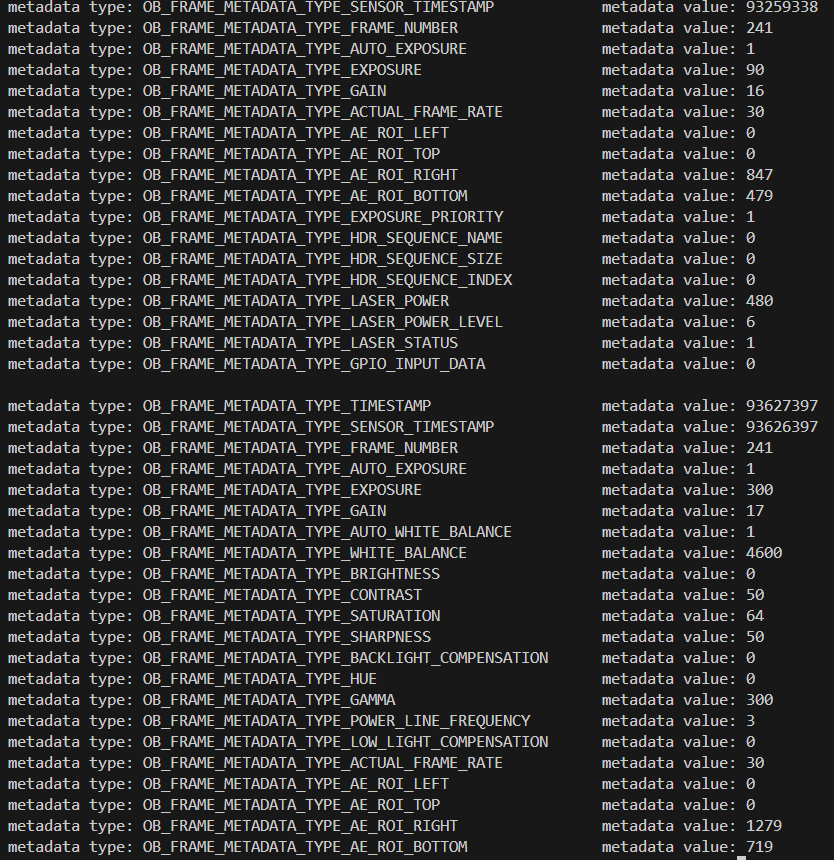
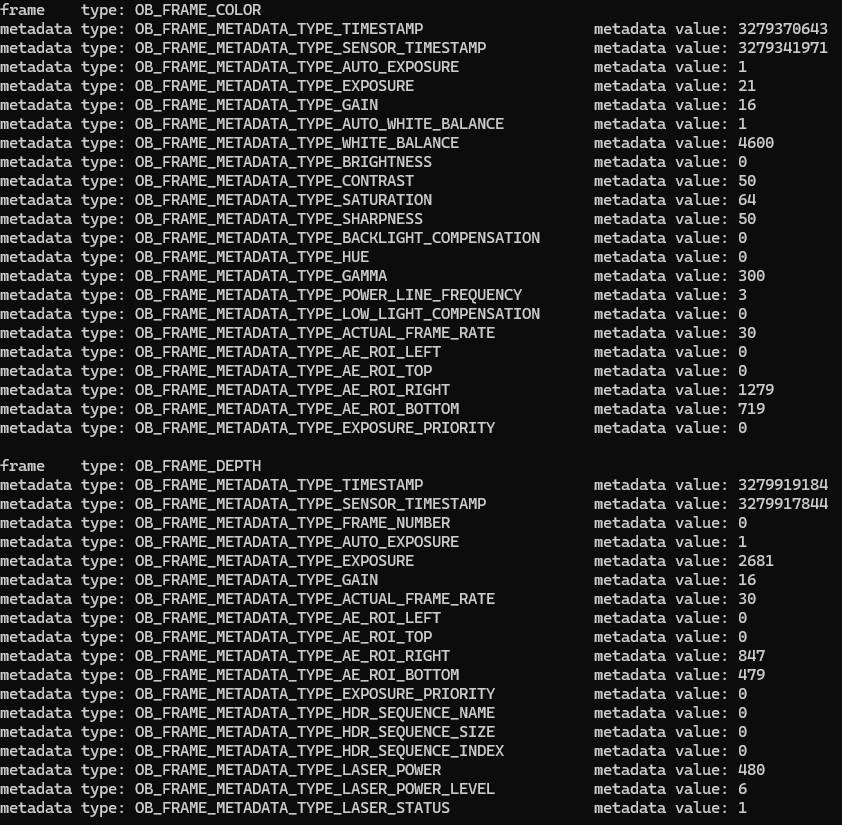
Optimize metadata sample code and documentation

diff --git a/examples/4.misc.metadata/metadata.cpp b/examples/4.misc.metadata/metadata.cpp
@@ -1,4 +1,5 @@
 #include <libobsensor/ObSensor.hpp>
+#include <libobsensor/h/ObTypes.h>
 
 #include "utils.hpp"
 
@@ -6,45 +7,12 @@
 #include <thread>
 #include <iomanip>
 
-std::thread         inputWatchThread;
-void                inputWatcher();
-OBFrameMetadataType metadataType;
-auto                metadataCount = OBFrameMetadataType::OB_FRAME_METADATA_TYPE_COUNT;
+std::thread inputWatchThread;
+std::atomic<bool> isRunning(true);
+void        inputWatcher();
+const char *metadataTypeToString(OBFrameMetadataType type);
+const char *frameTypeToString(OBFrameType type);
 
-std::map<uint32_t, std::string> metadataTypeMap = {
-    { 0, "OB_FRAME_METADATA_TYPE_TIMESTAMP" },
-    { 1, "OB_FRAME_METADATA_TYPE_SENSOR_TIMESTAMP" },
-    { 2, "OB_FRAME_METADATA_TYPE_FRAME_NUMBER" },
-    { 3, "OB_FRAME_METADATA_TYPE_AUTO_EXPOSURE" },
-    { 4, "OB_FRAME_METADATA_TYPE_EXPOSURE" },
-    { 5, "OB_FRAME_METADATA_TYPE_GAIN" },
-    { 6, "OB_FRAME_METADATA_TYPE_AUTO_WHITE_BALANCE" },
-    { 7, "OB_FRAME_METADATA_TYPE_WHITE_BALANCE" },
-    { 8, "OB_FRAME_METADATA_TYPE_BRIGHTNESS" },
-    { 9, "OB_FRAME_METADATA_TYPE_CONTRAST" },
-    { 10, "OB_FRAME_METADATA_TYPE_SATURATION" },
-    { 11, "OB_FRAME_METADATA_TYPE_SHARPNESS" },
-    { 12, "OB_FRAME_METADATA_TYPE_BACKLIGHT_COMPENSATION" },
-    { 13, "OB_FRAME_METADATA_TYPE_HUE" },
-    { 14, "OB_FRAME_METADATA_TYPE_GAMMA" },
-    { 15, "OB_FRAME_METADATA_TYPE_POWER_LINE_FREQUENCY" },
-    { 16, "OB_FRAME_METADATA_TYPE_LOW_LIGHT_COMPENSATION" },
-    { 17, "OB_FRAME_METADATA_TYPE_MANUAL_WHITE_BALANCE" },
-    { 18, "OB_FRAME_METADATA_TYPE_ACTUAL_FRAME_RATE" },
-    { 19, "OB_FRAME_METADATA_TYPE_FRAME_RATE" },
-    { 20, "OB_FRAME_METADATA_TYPE_AE_ROI_LEFT" },
-    { 21, "OB_FRAME_METADATA_TYPE_AE_ROI_TOP" },
-    { 22, "OB_FRAME_METADATA_TYPE_AE_ROI_RIGHT" },
-    { 23, "OB_FRAME_METADATA_TYPE_AE_ROI_BOTTOM" },
-    { 24, "OB_FRAME_METADATA_TYPE_EXPOSURE_PRIORITY" },
-    { 25, "OB_FRAME_METADATA_TYPE_HDR_SEQUENCE_NAME" },
-    { 26, "OB_FRAME_METADATA_TYPE_HDR_SEQUENCE_SIZE" },
-    { 27, "OB_FRAME_METADATA_TYPE_HDR_SEQUENCE_INDEX" },
-    { 28, "OB_FRAME_METADATA_TYPE_LASER_POWER" },
-    { 29, "OB_FRAME_METADATA_TYPE_LASER_POWER_LEVEL" },
-    { 30, "OB_FRAME_METADATA_TYPE_LASER_STATUS" },
-    { 31, "OB_FRAME_METADATA_TYPE_GPIO_INPUT_DATA" },
-};
 int main() try {
     // Create a pipeline.
     ob::Pipeline pipe;
@@ -53,28 +21,29 @@ int main() try {
     // Modify the default configuration by the configuration file: "OrbbecSDKConfig.xml"
     pipe.start();
 
-    // get key input
+    // Get key input
     inputWatchThread = std::thread(inputWatcher);
     inputWatchThread.detach();
 
-    while(true) {
+    while(isRunning) {
         // Wait for frameSet from the pipeline, the default timeout is 1000ms.
         auto frameSet = pipe.waitForFrameset();
 
-        // get the count of frames in the frameSet
+        // Get the count of frames in the frameSet
         auto frameCount = frameSet->getCount();
 
         for(uint32_t i = 0; i < frameCount; i++) {
-            // get the frame from frameSet
+            // Get the frame from frameSet
             auto frame      = frameSet->getFrame(i);
             auto frameIndex = frame->index();
-            // get the metadata of the frame, and print the metadata every 30 frames
+            // Get the metadata of the frame, and print the metadata every 30 frames
             if(frameIndex % 30 == 0) {
                 std::cout << std::endl;
-                for(uint32_t j = 0; j < static_cast<uint32_t>(metadataCount); j++) {
-                    // if the frame has the metadata, get the metadata value
+                std::cout << "frame    type: " << frameTypeToString(frame->type()) << std::endl;
+                for(uint32_t j = 0; j < static_cast<uint32_t>(OB_FRAME_METADATA_TYPE_COUNT); j++) {
+                    // If the frame has the metadata, get the metadata value
                     if(frame->hasMetadata(static_cast<OBFrameMetadataType>(j))) {
-                        std::cout << "metadata type: " << std::left << std::setw(50) << metadataTypeMap[j]
+                        std::cout << "metadata type: " << std::left << std::setw(50) << metadataTypeToString(static_cast<OBFrameMetadataType>(j))
                                   << " metadata value: " << frame->getMetadataValue(static_cast<OBFrameMetadataType>(j)) << std::endl;
                     }
                 }
@@ -96,6 +65,100 @@ catch(ob::Error &e) {
 void inputWatcher() {
     char input = ob_smpl::waitForKeyPressed();
     if(input == ESC_KEY) {
-        exit(EXIT_SUCCESS);
+        isRunning = false;
+    }
+}
+
+const char *metadataTypeToString(OBFrameMetadataType type) {
+    switch(type) {
+    case OB_FRAME_METADATA_TYPE_TIMESTAMP:
+        return "OB_FRAME_METADATA_TYPE_TIMESTAMP";
+    case OB_FRAME_METADATA_TYPE_SENSOR_TIMESTAMP:
+        return "OB_FRAME_METADATA_TYPE_SENSOR_TIMESTAMP";
+    case OB_FRAME_METADATA_TYPE_FRAME_NUMBER:
+        return "OB_FRAME_METADATA_TYPE_FRAME_NUMBER";
+    case OB_FRAME_METADATA_TYPE_AUTO_EXPOSURE:
+        return "OB_FRAME_METADATA_TYPE_AUTO_EXPOSURE";
+    case OB_FRAME_METADATA_TYPE_EXPOSURE:
+        return "OB_FRAME_METADATA_TYPE_EXPOSURE";
+    case OB_FRAME_METADATA_TYPE_GAIN:
+        return "OB_FRAME_METADATA_TYPE_GAIN";
+    case OB_FRAME_METADATA_TYPE_AUTO_WHITE_BALANCE:
+        return "OB_FRAME_METADATA_TYPE_AUTO_WHITE_BALANCE";
+    case OB_FRAME_METADATA_TYPE_WHITE_BALANCE:
+        return "OB_FRAME_METADATA_TYPE_WHITE_BALANCE";
+    case OB_FRAME_METADATA_TYPE_BRIGHTNESS:
+        return "OB_FRAME_METADATA_TYPE_BRIGHTNESS";
+    case OB_FRAME_METADATA_TYPE_CONTRAST:
+        return "OB_FRAME_METADATA_TYPE_CONTRAST";
+    case OB_FRAME_METADATA_TYPE_SATURATION:
+        return "OB_FRAME_METADATA_TYPE_SATURATION";
+    case OB_FRAME_METADATA_TYPE_SHARPNESS:
+        return "OB_FRAME_METADATA_TYPE_SHARPNESS";
+    case OB_FRAME_METADATA_TYPE_BACKLIGHT_COMPENSATION:
+        return "OB_FRAME_METADATA_TYPE_BACKLIGHT_COMPENSATION";
+    case OB_FRAME_METADATA_TYPE_HUE:
+        return "OB_FRAME_METADATA_TYPE_HUE";
+    case OB_FRAME_METADATA_TYPE_GAMMA:
+        return "OB_FRAME_METADATA_TYPE_GAMMA";
+    case OB_FRAME_METADATA_TYPE_POWER_LINE_FREQUENCY:
+        return "OB_FRAME_METADATA_TYPE_POWER_LINE_FREQUENCY";
+    case OB_FRAME_METADATA_TYPE_LOW_LIGHT_COMPENSATION:
+        return "OB_FRAME_METADATA_TYPE_LOW_LIGHT_COMPENSATION";
+    case OB_FRAME_METADATA_TYPE_MANUAL_WHITE_BALANCE:
+        return "OB_FRAME_METADATA_TYPE_MANUAL_WHITE_BALANCE";
+    case OB_FRAME_METADATA_TYPE_ACTUAL_FRAME_RATE:
+        return "OB_FRAME_METADATA_TYPE_ACTUAL_FRAME_RATE";
+    case OB_FRAME_METADATA_TYPE_FRAME_RATE:
+        return "OB_FRAME_METADATA_TYPE_FRAME_RATE";
+    case OB_FRAME_METADATA_TYPE_AE_ROI_LEFT:
+        return "OB_FRAME_METADATA_TYPE_AE_ROI_LEFT";
+    case OB_FRAME_METADATA_TYPE_AE_ROI_TOP:
+        return "OB_FRAME_METADATA_TYPE_AE_ROI_TOP";
+    case OB_FRAME_METADATA_TYPE_AE_ROI_RIGHT:
+        return "OB_FRAME_METADATA_TYPE_AE_ROI_RIGHT";
+    case OB_FRAME_METADATA_TYPE_AE_ROI_BOTTOM:
+        return "OB_FRAME_METADATA_TYPE_AE_ROI_BOTTOM";
+    case OB_FRAME_METADATA_TYPE_EXPOSURE_PRIORITY:
+        return "OB_FRAME_METADATA_TYPE_EXPOSURE_PRIORITY";
+    case OB_FRAME_METADATA_TYPE_HDR_SEQUENCE_NAME:
+        return "OB_FRAME_METADATA_TYPE_HDR_SEQUENCE_NAME";
+    case OB_FRAME_METADATA_TYPE_HDR_SEQUENCE_SIZE:
+        return "OB_FRAME_METADATA_TYPE_HDR_SEQUENCE_SIZE";
+    case OB_FRAME_METADATA_TYPE_HDR_SEQUENCE_INDEX:
+        return "OB_FRAME_METADATA_TYPE_HDR_SEQUENCE_INDEX";
+    case OB_FRAME_METADATA_TYPE_LASER_POWER:
+        return "OB_FRAME_METADATA_TYPE_LASER_POWER";
+    case OB_FRAME_METADATA_TYPE_LASER_POWER_LEVEL:
+        return "OB_FRAME_METADATA_TYPE_LASER_POWER_LEVEL";
+    case OB_FRAME_METADATA_TYPE_LASER_STATUS:
+        return "OB_FRAME_METADATA_TYPE_LASER_STATUS";
+    case OB_FRAME_METADATA_TYPE_GPIO_INPUT_DATA:
+        return "OB_FRAME_METADATA_TYPE_GPIO_INPUT_DATA";
+    default:
+        return "unknown metadata type";
+    }
+}
+
+const char *frameTypeToString(OBFrameType type) {
+    switch(type) {
+    case OB_FRAME_VIDEO:
+        return "OB_FRAME_VIDEO";
+    case OB_FRAME_IR:
+        return "OB_FRAME_IR";
+    case OB_FRAME_COLOR:
+        return "OB_FRAME_COLOR";
+    case OB_FRAME_DEPTH:
+        return "OB_FRAME_DEPTH";
+    case OB_FRAME_ACCEL:
+        return "OB_FRAME_ACCEL";
+    case OB_FRAME_GYRO:
+        return "OB_FRAME_GYRO";
+    case OB_FRAME_IR_LEFT:
+        return "OB_FRAME_IR_LEFT";
+    case OB_FRAME_IR_RIGHT:
+        return "OB_FRAME_IR_RIGHT";
+    default:
+        return "unknown frame type";
     }
 }

diff --git a/examples/README.md b/examples/README.md
@@ -15,6 +15,7 @@ There are several examples codes for users learn how to use Orbbec cameras. Here
 | stream   | [multi_streams](1.stream.multi_streams)                 | Use SDK to obtain multiple camera data streams and output them.                                                                                                                                                         |
 | stream   | [callback](1.stream.callback)                           | In this sample, users can obtain depth, RGB, and IR images. This sample also supports performing user-defined operations such as data acquisition, data processing, and data modification within the callback function. |
 | device   | [control](2.device.control)                             | The SDK can be used to modify camera-related parameters, including laser switch, laser level intensity, white balance switch, etc.                                                                                      |
+| device   | [firmware_update](2.device.firmware_update)                             | This sample demonstrates how to read a BIN file to perform firmware upgrades on the device. |
 | device   | [hot_plugin](2.device.hot_plugin)                       | Use SDK to handle the settings of device unplug callback and process the acquired code stream after unplugging.                                                                                                         |
 | advanced | [sync_align](3.advanced.sync_align)                     | Use the SDK interface to demonstrate the synchronization and alignment of sensor data streams, display the aligned image.                                                                                               |
 | advanced | [hw_d2c_align](3.advanced.hw_d2c_align)                 | Use the SDK interface to demonstrate the application of hardware depth-to-color alignment.                                                                                                                              |
@@ -25,6 +26,8 @@ There are several examples codes for users learn how to use Orbbec cameras. Here
 | advanced | [hdr](3.advanced.hdr)                                   | In this sample, user can get the HDR merge image. Also supports user to toggle HDR merge and toggle alternate show origin frame.                                                                                        |
 | advanced | [multi_devices](3.advanced.multi_devices)               | In this sample, users can connect multiple camera devices and get color and depth images of different cameras.                                                                                                          |
 | advanced | [common_usages](3.advanced.common_usages)               | Use SDK to handle the settings of device unplug callback and process the acquired code stream after unplugging.                                                                                                         |
+| misc | [logger](4.misc.logger)               | Use the SDK interface to set the log output level and customize the output path. |
+| misc | [metadata](4.misc.metadata)               | In this sample, users can retrieve metadata for each stream of the camera.   |
 
 ### C language examples
 

diff --git a/examples/4.misc.metadata/README.md b/examples/4.misc.metadata/README.md
@@ -6,11 +6,11 @@ Use the SDK interface to get the frameSet, then get the frame from frameSet, pri
 
 ### Knowledge
 
-Pipeline is a pipeline for processing data streams, providing multi-channel stream configuration, switching, frame aggregation, and frame synchronization functions
+Pipeline is a pipeline for processing data streams, providing multi-channel stream configuration, switching, frame aggregation, and frame synchronization functions.
 
-Frameset is a combination of different types of Frames
+Frameset is a combination of different types of Frames.
 
-Metadata is used to describe the various properties and states of a frame
+Metadata is used to describe the various properties and states of a frame.
 
 ## Code overview
 
@@ -25,44 +25,32 @@ Metadata is used to describe the various properties and states of a frame
     pipe.start();
     ```
 
-2. Get key input
+2. Get frameSet from pipeline.
 
     ```cpp
-    //get key input
-    inputWatchThread = std::thread(inputWatcher);
-    inputWatchThread.detach();
+    // Wait for frameSet from the pipeline, the default timeout is 1000ms.
+    auto frameSet   = pipe.waitForFrameset();
+    ```
 
-    void inputWatcher() {
-        char input = ob_smpl::waitForKeyPressed();
-        if(input == ESC_KEY) {
-            exit(EXIT_SUCCESS);
-        }
+3. Get frame from frameSet.
+
+    ```cpp
+    auto frameCount = frameSet->getCount();
+    for(uint32_t i = 0; i < frameCount; i++) {
+        // Get the frame from frameSet
+        auto frame = frameSet->getFrame(i);
     }
-    ```
-
-3. Get frameSet
-
-    ```cpp
-    // Wait for frameSet from the pipeline, the default timeout is 1000ms.
-    auto frameSet   = pipe.waitForFrameset();
-    ```
-
-4. Get frame from frameSet
-
-    ```cpp
-    // Wait for frameSet from the pipeline, the default timeout is 1000ms.
-    auto frameSet   = pipe.waitForFrameset();
    ```
 
-5. Get metadata from frame
+4. Check if the frame object contains metadata, then retrieve it.
 
     ```cpp
-    //get the metadata of the frame
+    // Get the metadata of the frame
     for(uint32_t j = 0; j < static_cast<uint32_t>(metadataCount); j++) {
-        // if the frame has the metadata, get the metadata value
+        // If the frame has the metadata, get the metadata value
         if(frame->hasMetadata(static_cast<OBFrameMetadataType>(j))) {
             std::cout << "metadata type: " << std::left << std::setw(50) << metadataTypeMap[j]
-                        << " metadata value: " << frame->getMetadataValue(static_cast<OBFrameMetadataType>(j)) << std::endl;
+                      << " metadata value: " << frame->getMetadataValue(static_cast<OBFrameMetadataType>(j)) << std::endl;
         }
     }
     ```
@@ -80,4 +68,4 @@ Press the Esc key in the window to exit the program.
 
 ### Result
 
-![image](/openorbbecsdkgroup/OpenOrbbecSDK/docs/resource/metadata.jpg)
+![image](../../docs/resource/metadata.jpg)
